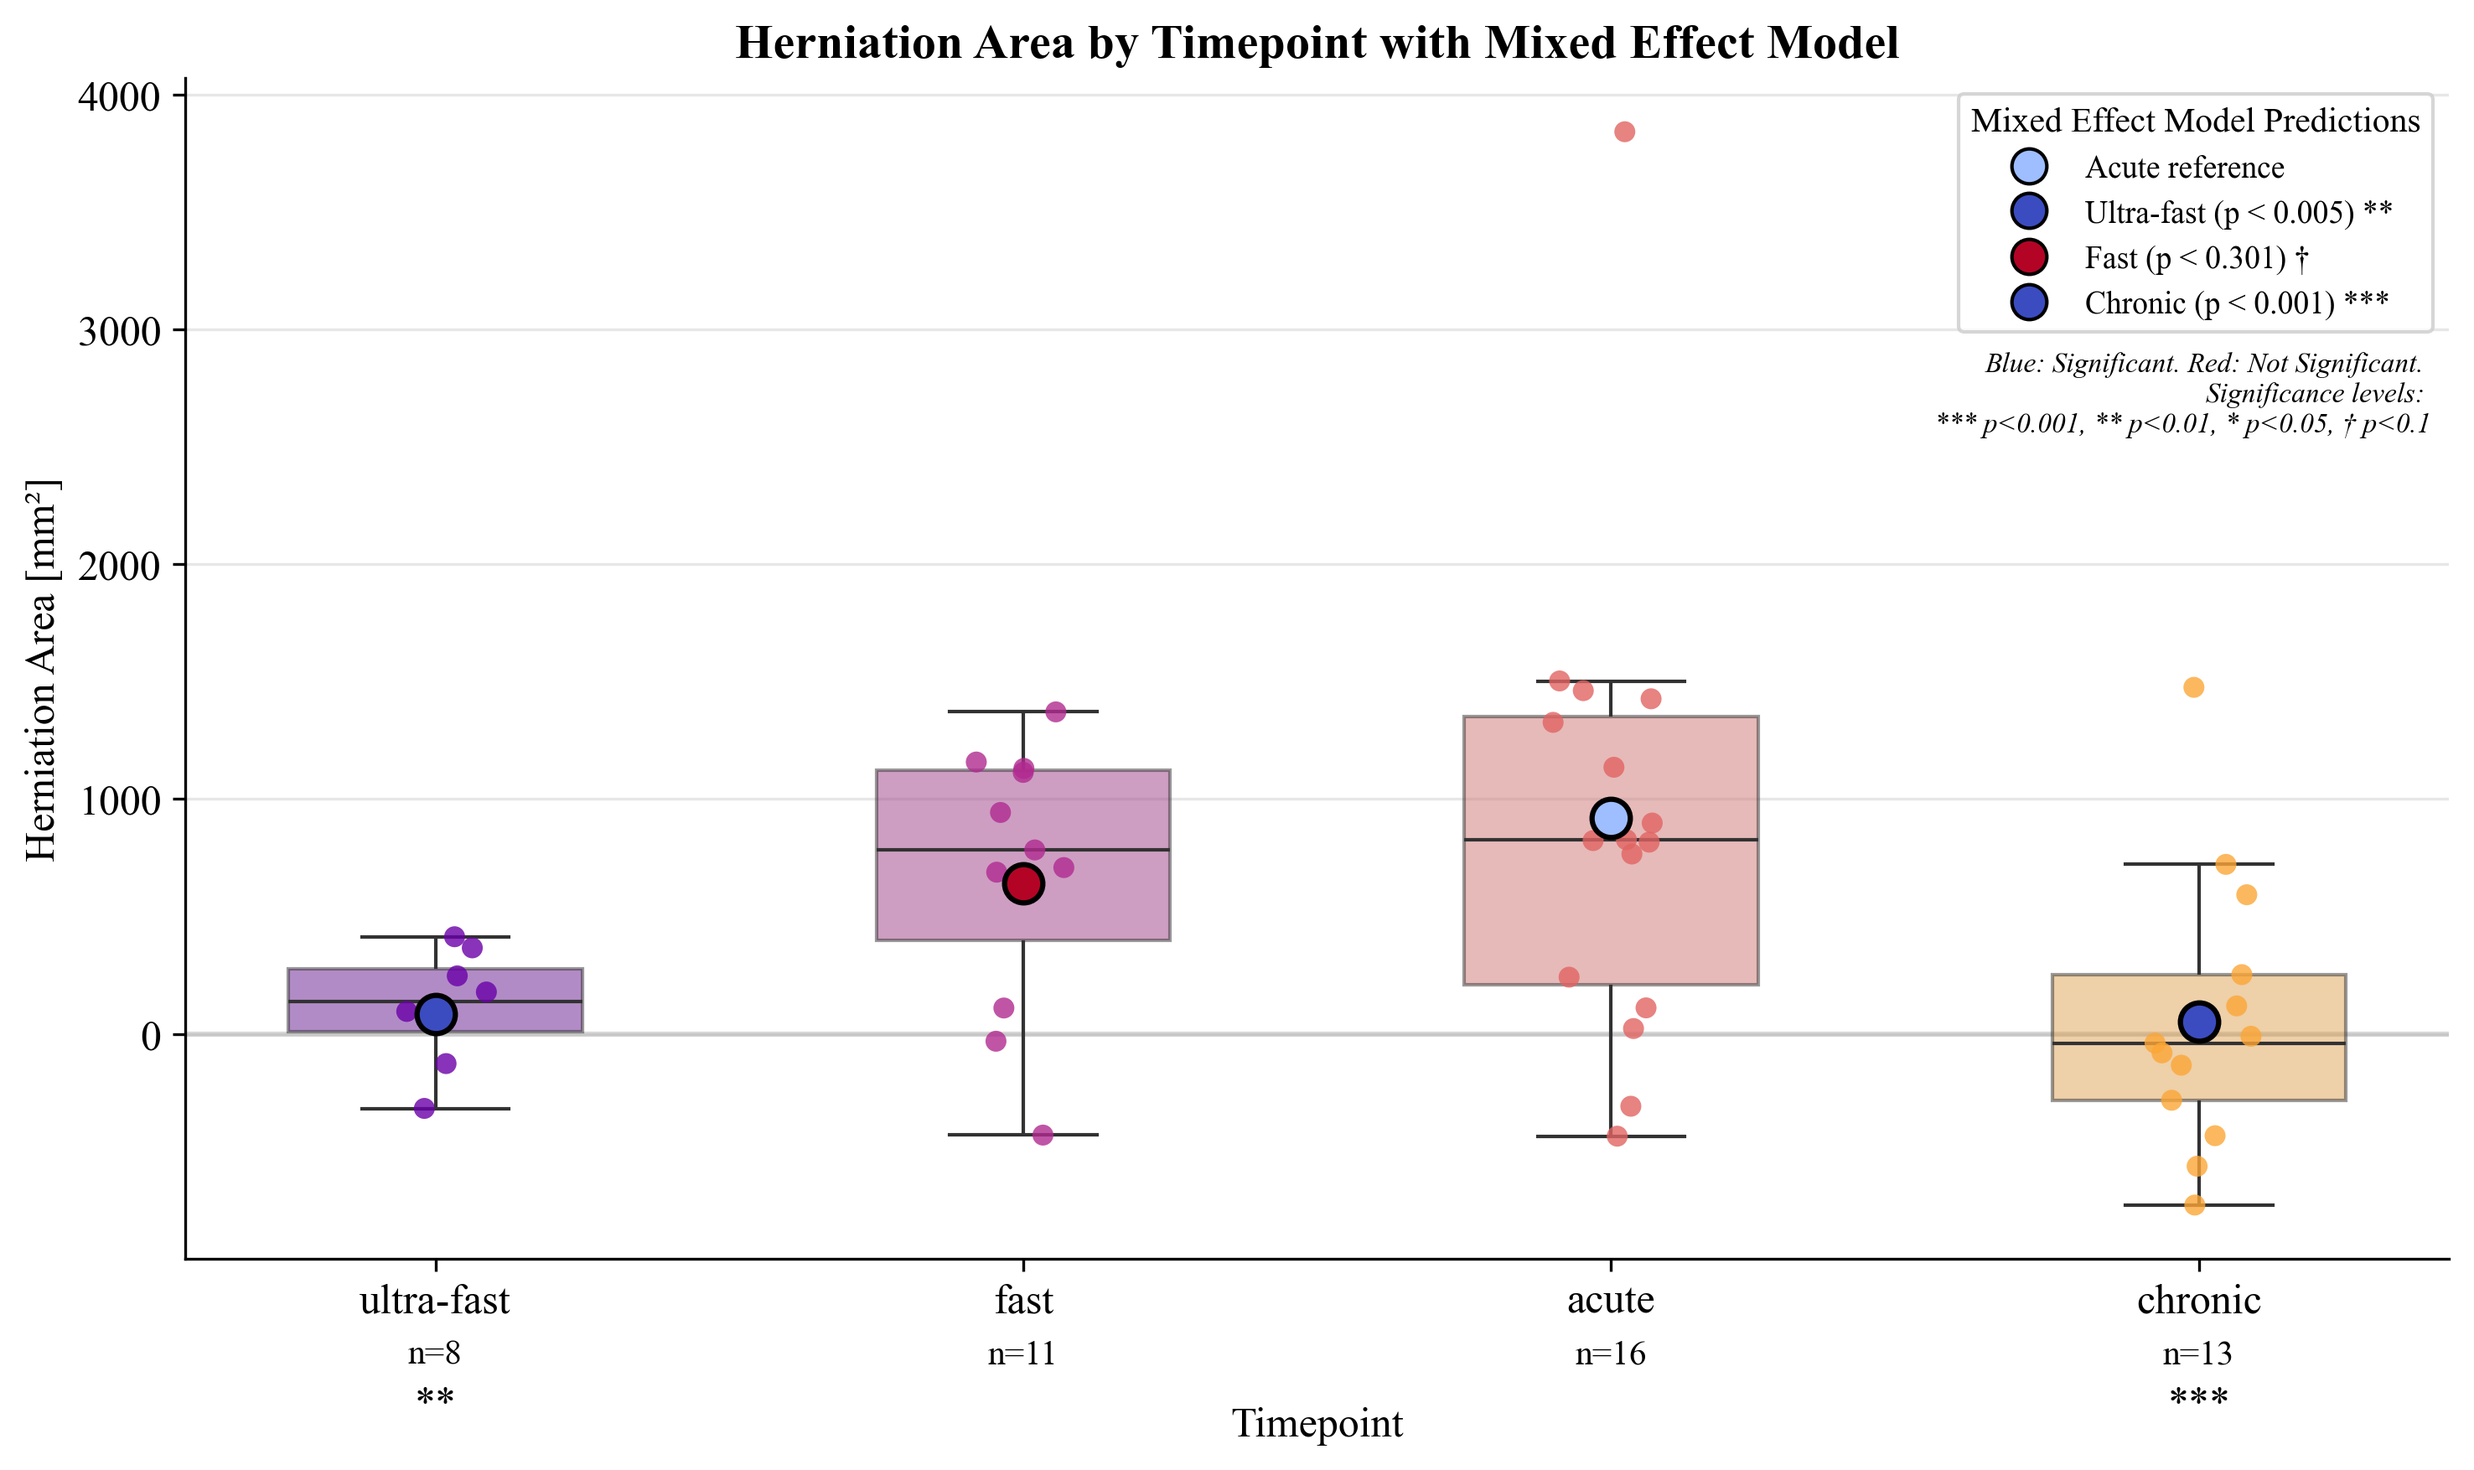
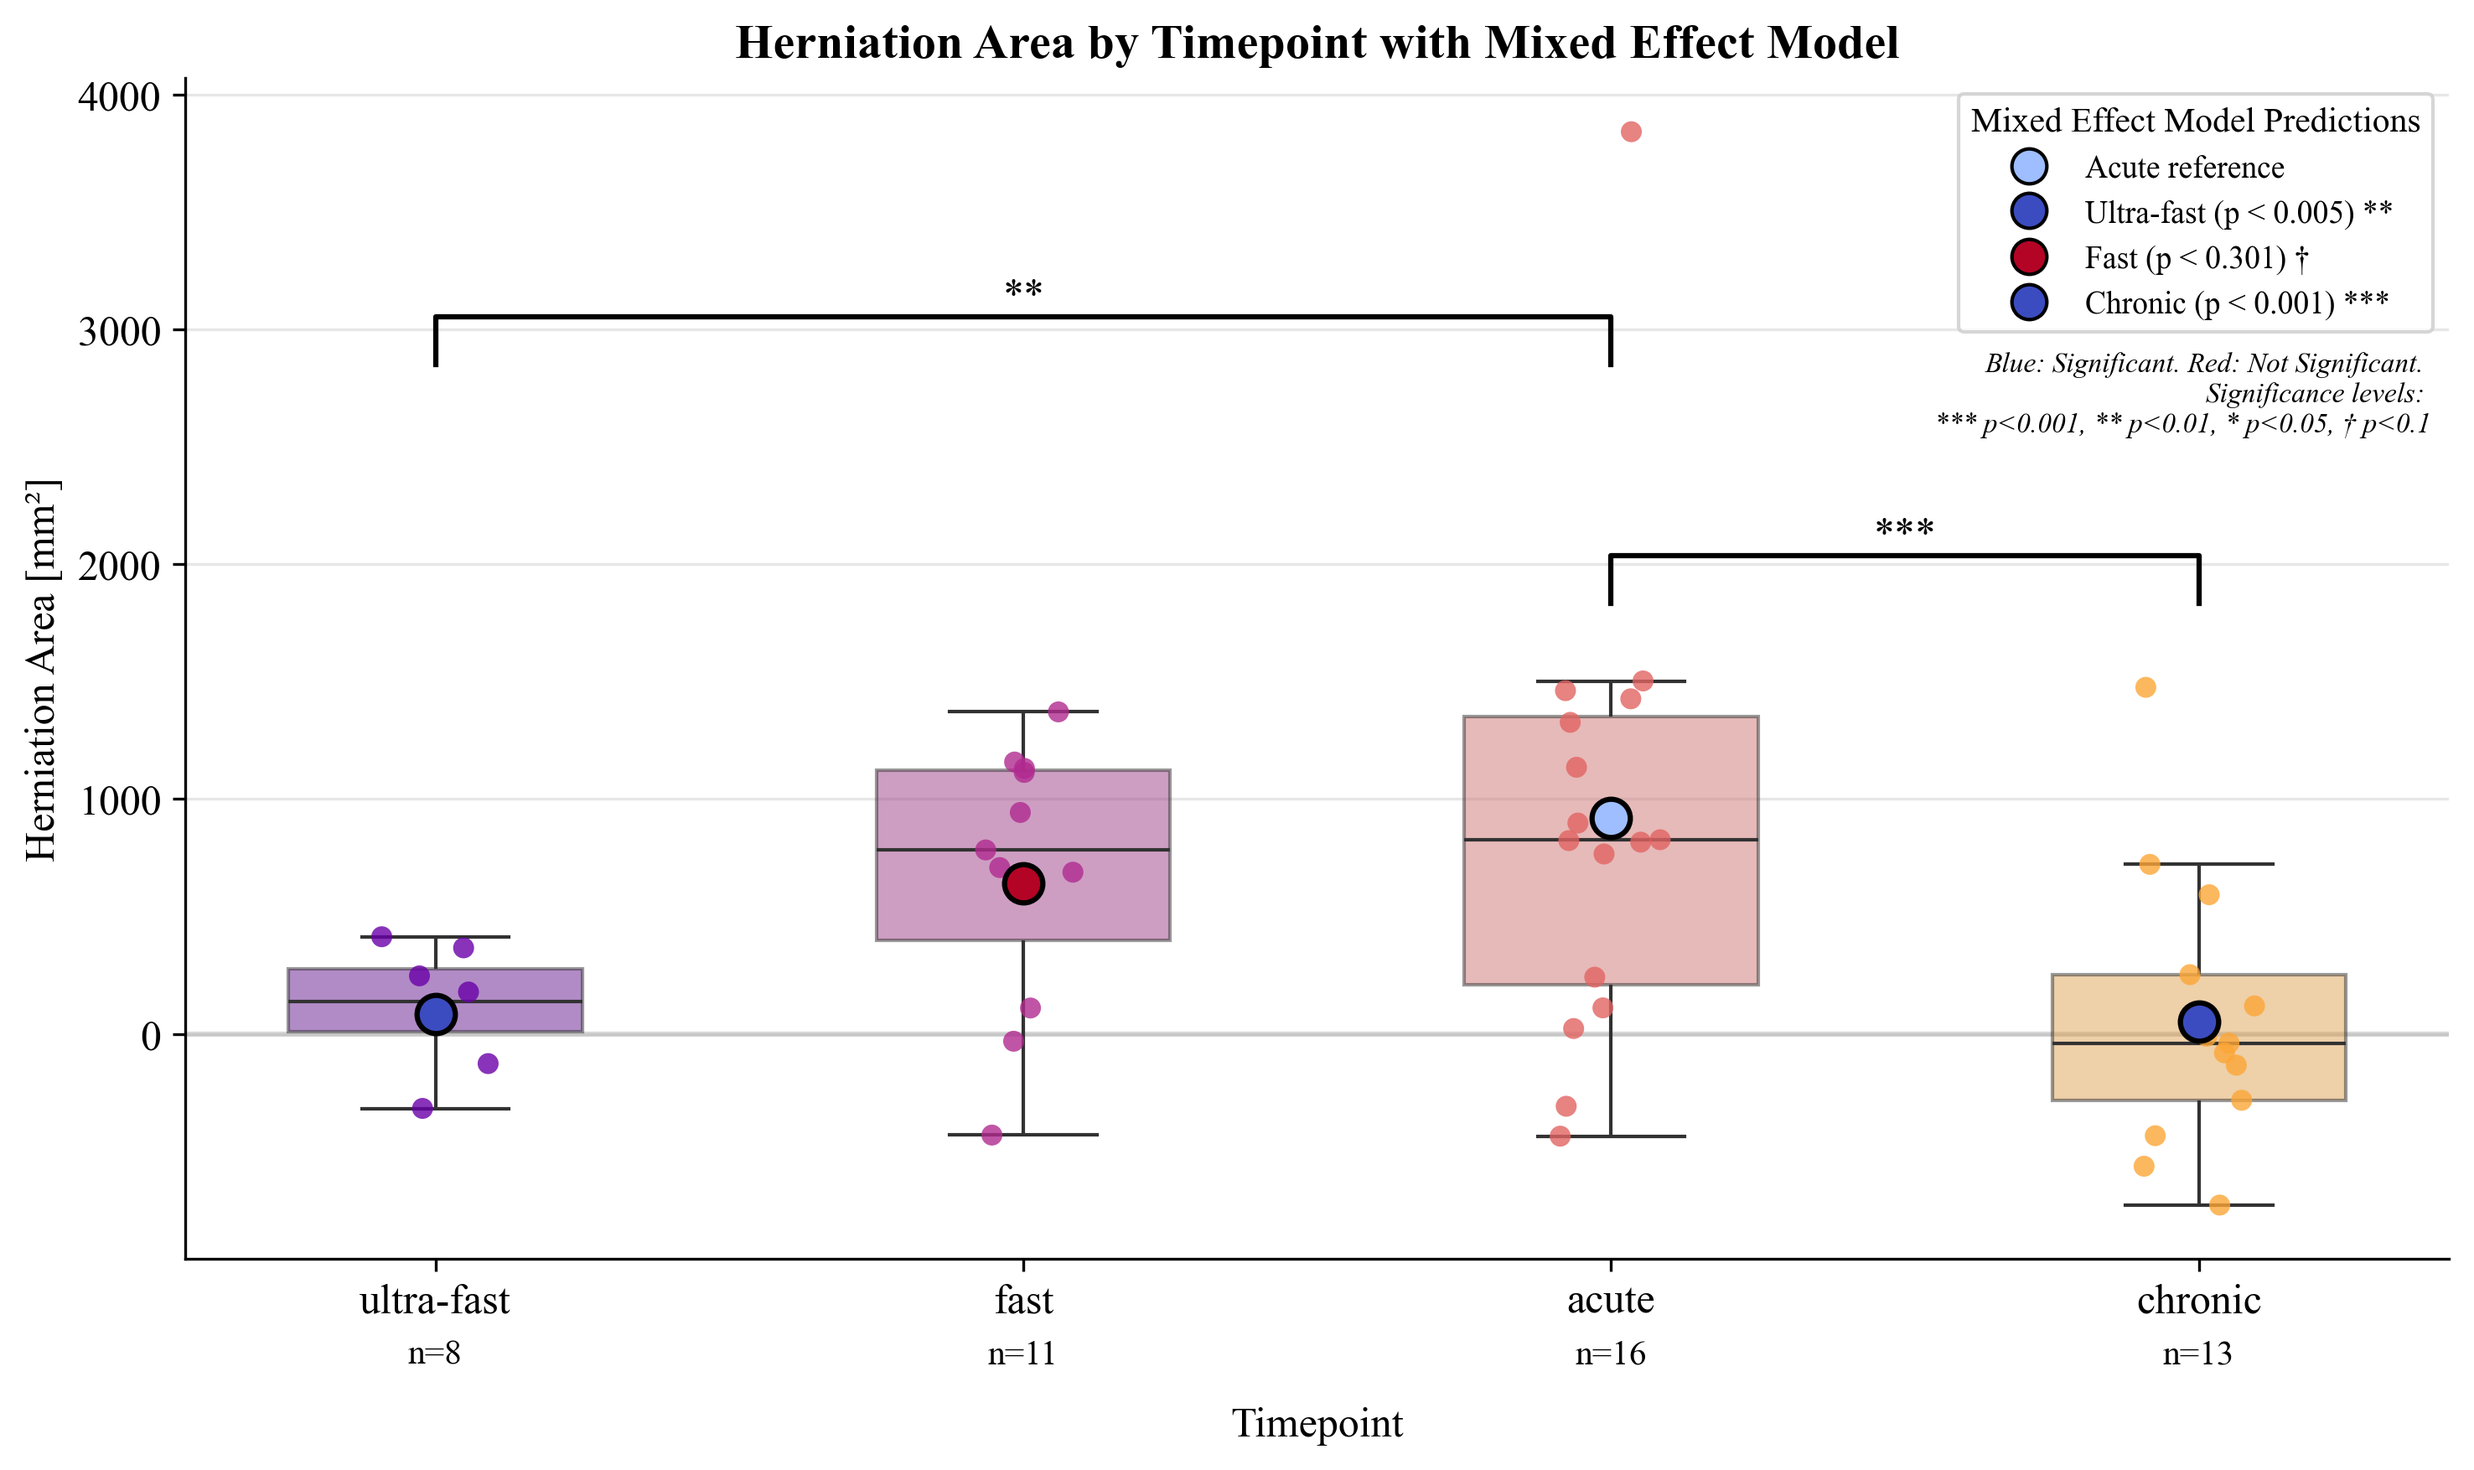
create brackets over box plots to show significance

diff --git a/Image_Processing_Scripts/stats_main.py b/Image_Processing_Scripts/stats_main.py
@@ -995,13 +995,13 @@ def mixed_effect_boxplot(df, result, timepoints=['ultra-fast', 'fast', 'acute', 
                ha='right', fontsize=8, style='italic')
         
 
-    # Add significance notations under the x-axis
-    for i, tp in enumerate(plot_timepoints):
-        if tp != reference_category and tp in sig_levels:
-            sig_marker = sig_levels.get(tp, "")
-            if sig_marker not in ["baseline", "n.s."]:
-                ax.text(i, -1500, sig_marker, 
-                       ha='center', va='top', fontsize=12, color='black')
+    # # Add significance notations under the x-axis
+    # for i, tp in enumerate(plot_timepoints):
+    #     if tp != reference_category and tp in sig_levels:
+    #         sig_marker = sig_levels.get(tp, "")
+    #         if sig_marker not in ["baseline", "n.s."]:
+    #             ax.text(i, -1500, sig_marker, 
+    #                    ha='center', va='top', fontsize=12, color='black')
     
     # Set labels and title
     ax.set_xlabel('Timepoint', fontsize=12)
@@ -1032,10 +1032,10 @@ def mixed_effect_boxplot(df, result, timepoints=['ultra-fast', 'fast', 'acute', 
     bracket_height = y_max * 0.05  # 5% of y-axis height
 
     # Add bracket between ultra-fast and acute
-    add_significance_bracket(ax, 0, 2, y_max * 0.9, bracket_height, "**")
+    add_significance_bracket(ax, 0, 2, y_max * 0.7, bracket_height, str(sig_levels.get("ultra-fast", "")))
 
     # Add bracket between acute and chronic 
-    add_significance_bracket(ax, 2, 3, y_max * 0.85, bracket_height, "***")
+    add_significance_bracket(ax, 2, 3, y_max * 0.45, bracket_height, sig_levels.get("chronic", ""))
 
     plt.tight_layout()
     plt.savefig('Image_Processing_Scripts/area_diff_mixed_effect_boxplot.png', dpi=300)
@@ -1736,20 +1736,26 @@ if __name__ == '__main__':
     # Raw data visualisations:
     ## create_timepoint_scatter(new_df)
     ## create_timepoint_violin(new_df)
-    create_timepoint_boxplot(new_df)
+
+    # THIS ONE
+    # create_timepoint_boxplot(new_df)
 
     # pairwise test visualisations:
-    data_availability_matrix(pivoted_data, timepoints=['ultra-fast', 'fast', 'acute', '3mo', '6mo', '12mo', '24mo'], filename='data_availability.png')
+    #THIS ONE ONLY:
+    # data_availability_matrix(pivoted_data, timepoints=['ultra-fast', 'fast', 'acute', '3mo', '6mo', '12mo', '24mo'], filename='data_availability.png')
+    
     #significance_matrix_ttest(valid_results, timepoints=['ultra-fast', 'fast', 'acute', '3mo', '6mo', '12mo', '24mo'], filename='significance_matrix.png')
     #significance_matrix_wilcoxon(valid_wilcoxon_results, timepoints=['ultra-fast', 'fast', 'acute', '3mo', '6mo', '12mo', '24mo'], filename='significance_matrix_wilcoxon.png')
     #create_forest_plot(valid_wilcoxon_results, 'mean_differences_summary.png')
 
     # Mixed effect model visualisations:
-    data_availability_matrix(binned_df_pivot, order, filename='data_availability_matrix_binned.png')
+    # THIS ONE:
+    # data_availability_matrix(binned_df_pivot, order, filename='data_availability_matrix_binned.png')
 
     # Plot the significance matrix
-    sig_df, mask = emmeans_significance_matrix(py_pairs)
-    plot_emmeans_sig_mat(sig_df, mask)  
+    # THIS ONE: (2 LINES)
+    # sig_df, mask = emmeans_significance_matrix(py_pairs)
+    # plot_emmeans_sig_mat(sig_df, mask)  
 
     mixed_effect_boxplot(new_df, result, timepoints=['ultra-fast', 'fast', 'acute', '3mo', '6mo', '12mo', '24mo'], chronic_timepoints=['3mo', '6mo', '12mo', '24mo'])
    
